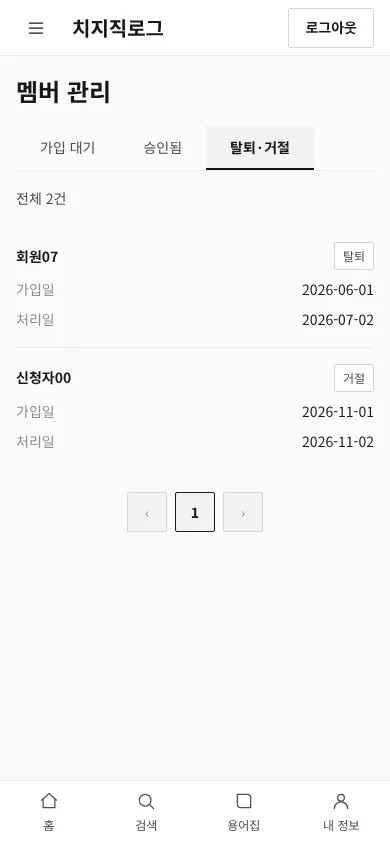
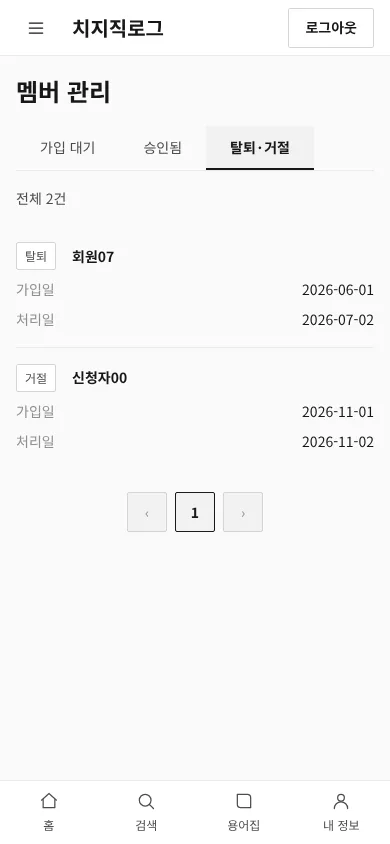
Mockup: members out tab, 상태 column first; refresh guide captures
Claude-Session: https://claude.ai/code/session_01GfC6kzomQJGH6k4MBTzgWx

diff --git a/docs/mockup/app.js b/docs/mockup/app.js
@@ -367,7 +367,7 @@
     var head = '';
     if (t === 'pending') head = '<span class="c-xs"><label class="check"><input type="checkbox" data-act="sel-all"></label></span><span class="c-fill">닉네임</span><span class="c-s">가입일</span><span class="c-s">등급 답변</span><span class="c-s">최근 게시물</span><span class="c-act">관리</span>';
     if (t === 'ok') head = '<span class="c-xs"><label class="check"><input type="checkbox" data-act="sel-all"></label></span><span class="c-fill">닉네임</span><span class="c-s">가입일</span><span class="c-m">최근 접속</span><span class="c-act">관리</span>';
-    if (t === 'out') head = '<span class="c-fill">닉네임</span><span class="c-s">상태</span><span class="c-s">가입일</span><span class="c-s">처리일</span>';
+    if (t === 'out') head = '<span class="c-s">상태</span><span class="c-fill">닉네임</span><span class="c-s">가입일</span><span class="c-s">처리일</span>';
     h += '<div class="list"><div class="row row-head">' + head + '</div>';
     if (!list.length) h += '<div class="row mute">해당하는 멤버가 없습니다.</div>';
     pg.items.forEach(function (m) {
@@ -385,7 +385,7 @@
           '<span class="c-act">' + rbtn('탈퇴', 'withdraw', m.id, 'btn-secondary is-danger') + '</span>';
       }
       if (t === 'out') {
-        row = line(nick + '<span class="c-s m-end"><span class="chip">' + esc(m.why) + '</span></span>') +
+        row = line('<span class="c-s"><span class="chip">' + esc(m.why) + '</span></span>' + nick) +
           line(ml('가입일') + '<span class="c-s m-end">' + esc(m.joined) + '</span>') +
           line(ml('처리일') + '<span class="c-s m-end">' + esc(m.done) + '</span>');
       }
